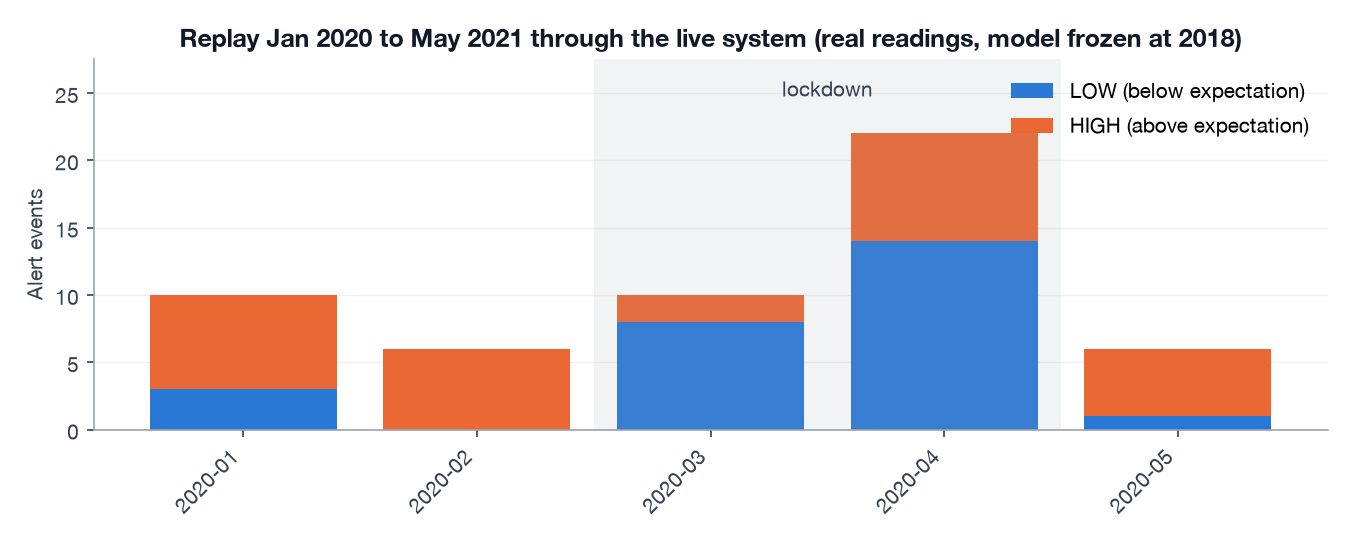
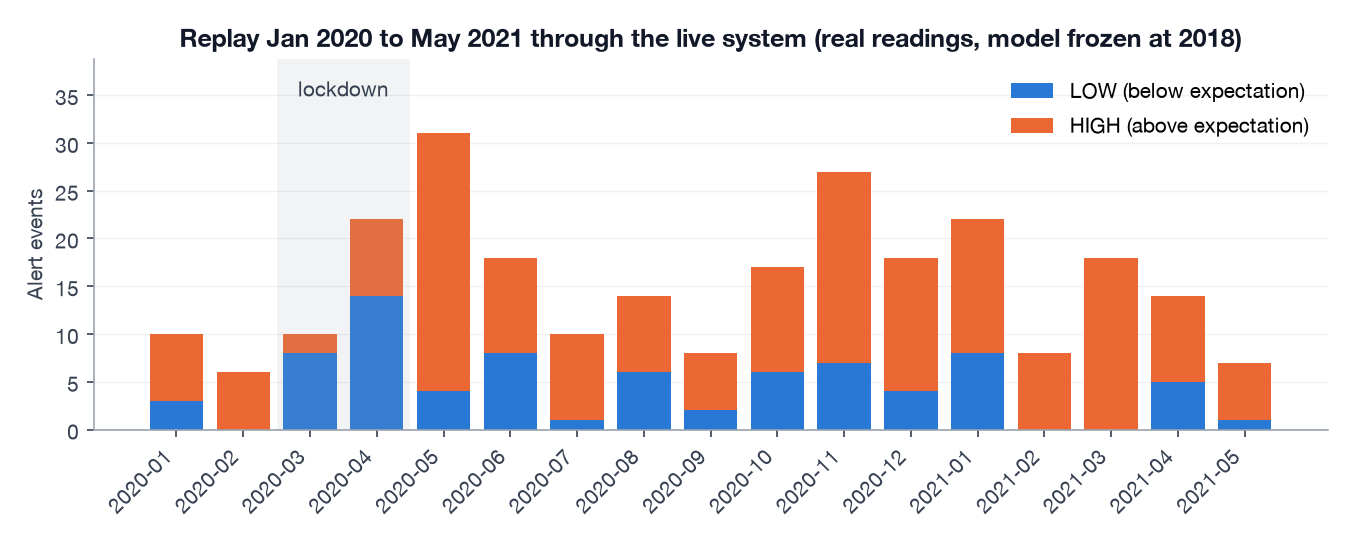
docs: replay figures and §9.3 from the rebuilt stack; numbers.json as single source; old figure files removed

diff --git a/scripts/check_numbers.py b/scripts/check_numbers.py
@@ -23,7 +23,7 @@ def expectations(n: dict) -> list[tuple[str, str, str]]:
     fa = det["clean"]["fa_per_week"]
     exp: list[tuple[str, str, str]] = [
         ("calibration factor", "writeup", f"{n['calibration_factor']:.2f}"),
-        ("clean FA/week 2019", "writeup", f"{fa:.2f} false alarms"),
+        ("clean FA/week 2019", "writeup", f"**{fa:.2f}**"),
         ("coverage 2019", "writeup", f"{det['clean']['coverage']:.2f}"),
         ("baseline FA/week", "writeup", f"{base['clean']['fa_per_week']:.2f}"),
         ("trough hour", "writeup", f"{n['hour_min']:02d}:00"),

diff --git a/docs/writeup.md b/docs/writeup.md
@@ -397,20 +397,20 @@ Reliable detection starts around **+12–15 %** (28–35 kW on this building); b
 
 ### 9.3 The replay through the live system
 
-The complete 2020-01 to 2021-05 period — real readings only, no injection — streamed over MQTT into the deployed stack: **48,173 score rows for 48,172 readings** (the extra row is a boundary slot), zero message loss, about 15 ms scoring latency per reading. Alerts per month:
+The complete 2020-01 to 2021-05 period — real readings only, no injection — streamed over MQTT into the deployed stack, scored by the same registry model as §9.1: **48,164 score rows for 48,164 readings**, zero message loss, median scoring latency 9 ms (p95 12 ms) per reading. Band coverage in the stack's `scores` table: 0.68 in 2020 and 0.75 in 2021 — the same figures as the offline scoring of §9.4, which is the batch-equals-streaming property of §10.2 holding on real data. 260 alert events over the seventeen months. Alerts per month:
 
 | Month | Alerts | LOW | HIGH | Excess kWh | Note |
 |---|---|---|---|---|---|
-| 2020-01 | 14 | 6 | 8 | 102 | 3.2/week — inside the budget but above 2019's 1.7; also the level tracker's warm-up month |
-| 2020-02 | 9 | 1 | 8 | 211 | |
-| 2020-03 | 16 | **13** | 3 | 33 | lockdown begins; mean alert duration 34 h |
-| 2020-04 | 20 | **14** | 6 | 54 | |
-| 2020-05 | 31 | 2 | **29** | 816 | partial reopening reads as *high* against the newly learned low level |
-| 2020-06 to 2021-05 | 8–26 / month | | | | elevated relative to 2019, with a model two years stale |
+| 2020-01 | 10 | 3 | 7 | 127 | 2.3/week — inside the budget, close to 2019's 1.6; also the level tracker's warm-up month |
+| 2020-02 | 6 | 0 | 6 | 335 |  |
+| 2020-03 | 10 | **8** | 2 | 64 | lockdown begins; mean alert duration 59 h |
+| 2020-04 | 22 | **14** | 8 | 103 |  |
+| 2020-05 | 31 | 4 | **27** | 1577 | partial reopening reads as *high* against the newly learned low level |
+| 2020-06 to 2021-05 | 7–27 / month | | | | elevated relative to 2019, with a model two years stale |
 
 ![Figure 7 — replay alerts by month](img/fig7_replay_alerts.png)
 
-*Figure 7. Alert events per month from the live replay of real readings, coloured by direction. The frozen 2018 model sees the lockdown as weeks of "below expectation", then partial reopening as "above" the newly learned level. Offline scoring of the whole 2016–2021 series gives the same picture: 939 and 1,260 `SUSTAINED_LOW` slots in March and April 2020, almost nothing in the training years.*
+*Figure 7. Alert events per month from the live replay of real readings, coloured by direction. The frozen 2018 model sees the lockdown as weeks of "below expectation", then partial reopening as "above" the newly learned level. The stack's own scores show 1,065 and 726 `SUSTAINED_LOW` slots in March and April 2020, almost nothing in the training years.*
 
 The March–May 2020 sequence is what a manager would want explained on the dashboard: first "the building is running far below what it should" for weeks, then "it is running above what it just was". The second wave is correct relative to the recent level; whether it is useful depends on what the manager is asking.
 
